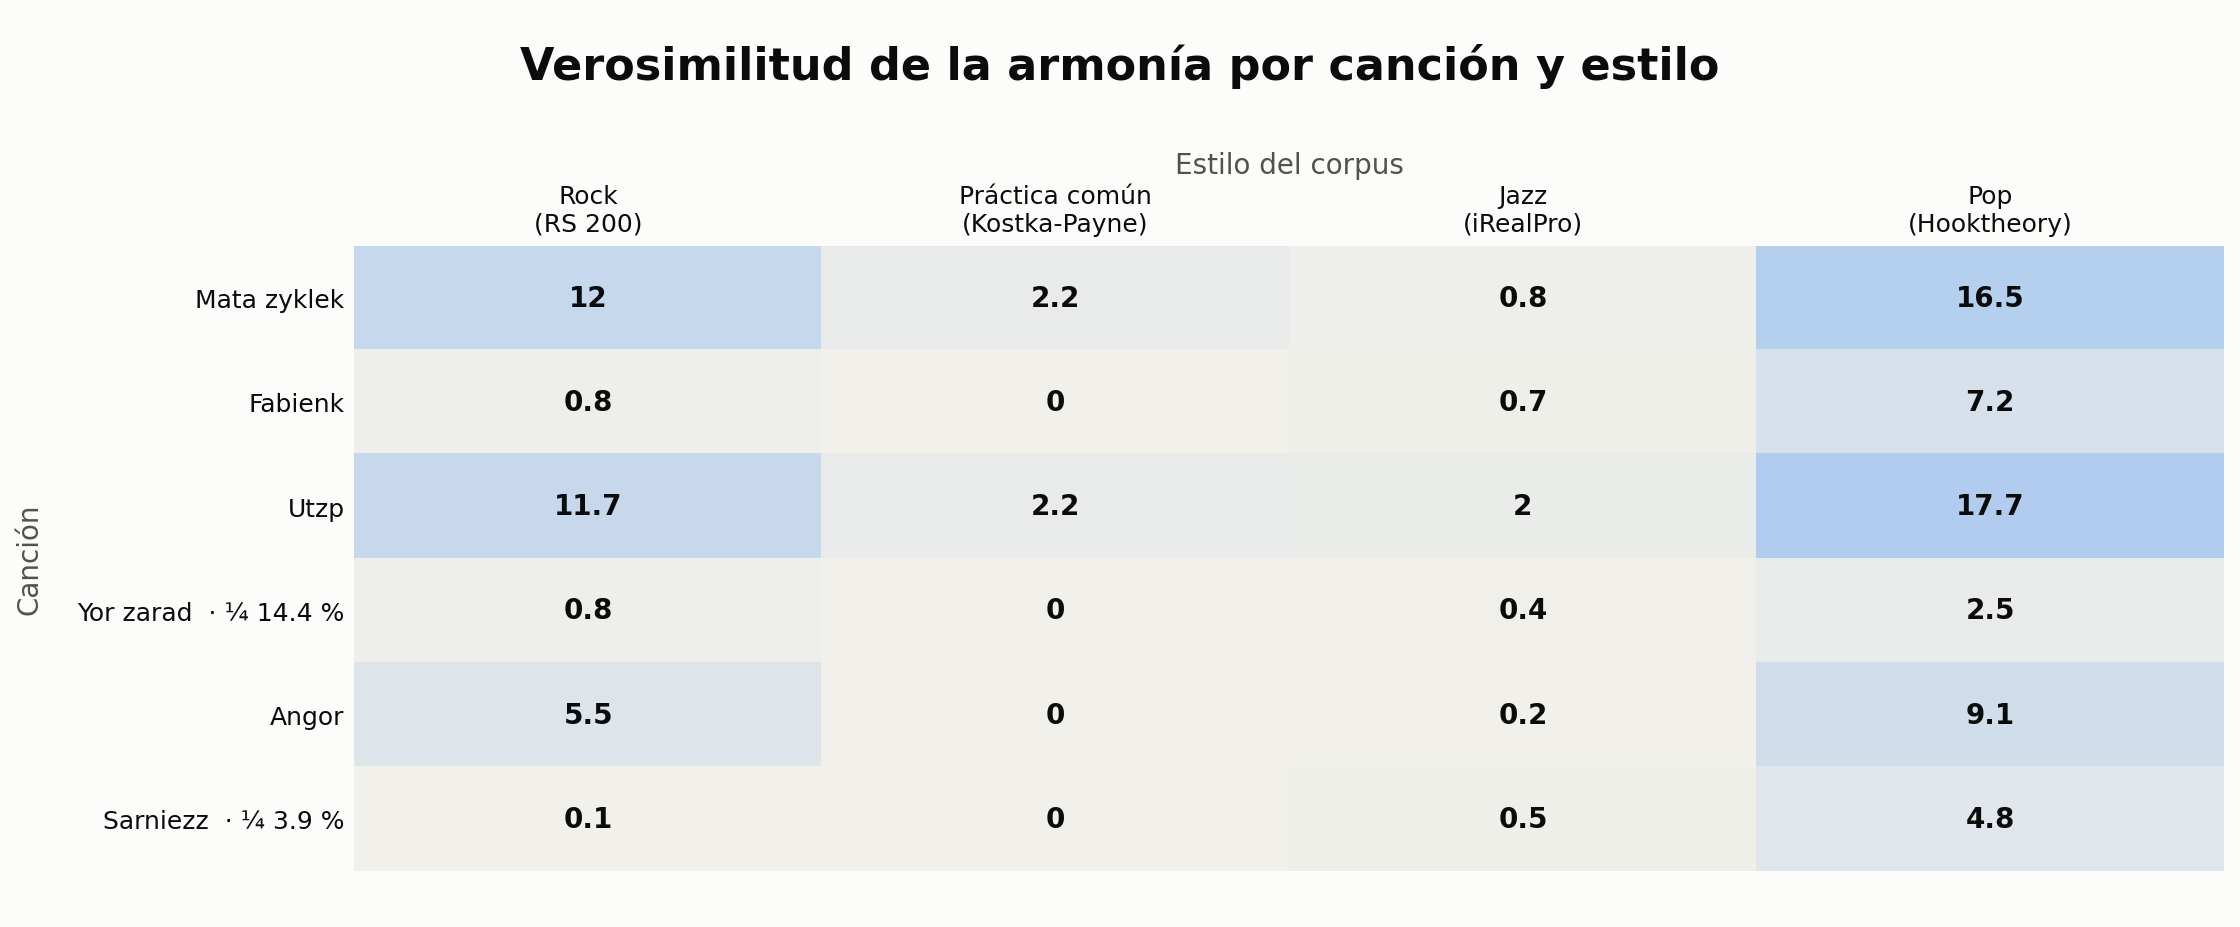
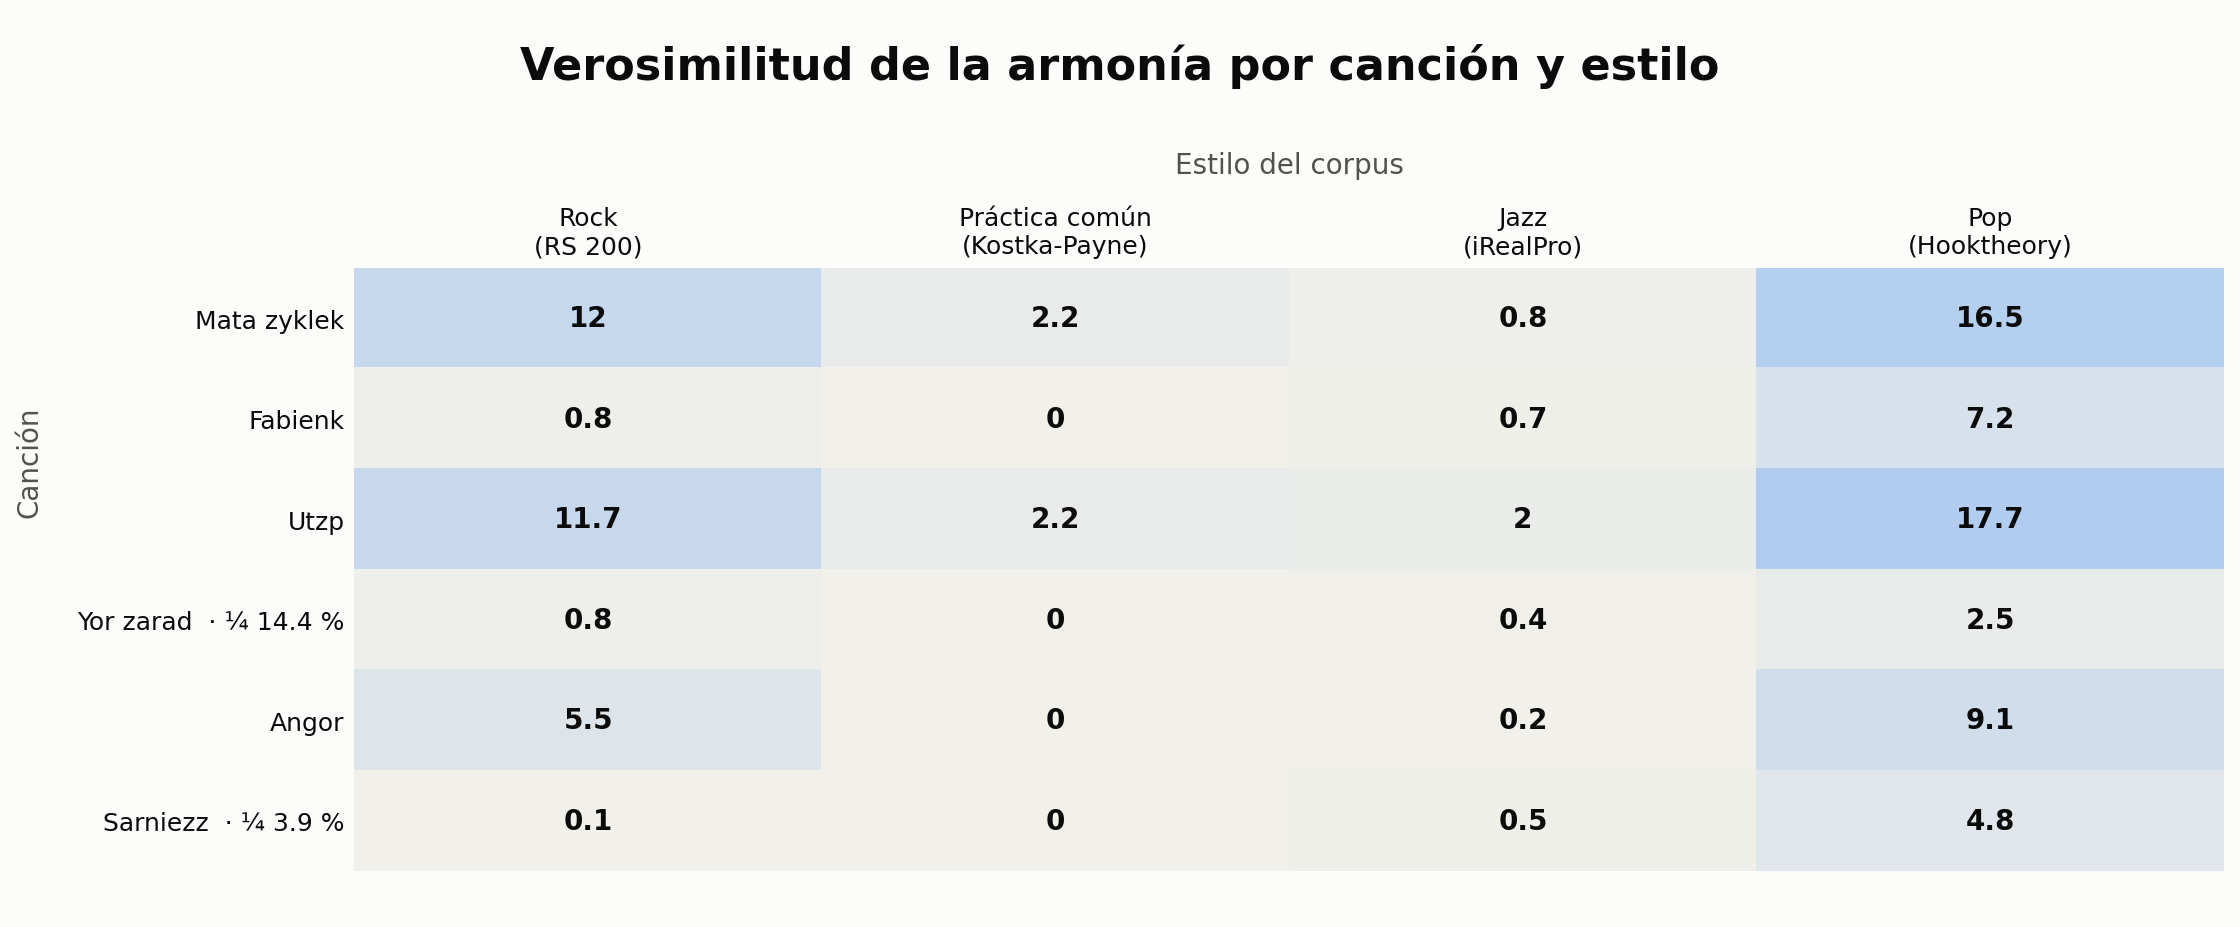
...

diff --git a/presentacion/index.html b/presentacion/index.html
@@ -669,7 +669,7 @@ Primus: comparación propia; no decir aún para qué sirve.</aside>
   <section class="contenido" data-sub="gráfica 3b"><span class="numero"></span><h2>Síntesis · clasificación por corpus</h2><p class="subtitulo">Resultados · 3b</p>
     <div class="grafica-completa sola fig"><img src="img/3b_sintesis_clasificacion_mapa.png" alt=""></div>
     <p class="pie" data-campo="pie"></p>
-    <aside class="notes">Percentil medio de tipicidad de cada canción frente a cada corpus (azul oscuro = más parecido; 50 = pieza típica). Debajo, el percentil de cada bloque (A armonía, E escala, ¼ cuartos de tono, M metro): el color es su promedio; por ejemplo, Sarniezz en rock (34) sale de A 0, E 3 y M 100. La fila «Álbum» es la media. En gris (*): corpus con menos de 100 piezas, que no cuentan para el veredicto; por eso el 83 de Mata Zyklek en clásica no es un parecido real.</aside></section>
+    <aside class="notes">Percentil medio de tipicidad de cada canción frente a cada corpus (azul oscuro = más parecido; 50 = pieza típica). Debajo, el percentil de cada bloque (A armonía, E escala, ¼ cuartos de tono, M metro): el color es su promedio; por ejemplo, Sarniezz en rock (34) sale de A 0, E 3 y M 100. La fila «Álbum» es la media. Rayados (*): corpus con menos de 100 piezas, que no cuentan para el veredicto; por eso el 83 de Mata Zyklek en clásica no es un parecido real.</aside></section>
   <section class="contenido" data-sub="gráfica 3c"><span class="numero"></span><h2>Síntesis · qué corpus gana cada bloque</h2><p class="subtitulo">Resultados · 3c</p>
     <div class="grafica-completa sola fig"><img src="img/3c_sintesis_corpus_por_bloque.png" alt=""></div>
     <p class="pie" data-campo="pie"></p>

diff --git a/scripts/comparacion/figuras_album.py b/scripts/comparacion/figuras_album.py
@@ -178,21 +178,28 @@ def figura_clasificacion(bloques: dict, textos: bool = True, parte: str = "ambas
 def _mapa_clasificacion(arriba, M, nb, corpora, filas, pred, info: dict | None = None, minimo: int = 100,
                         rotulo: bool = True, det: list | None = None) -> None:
     """Los corpus con menos de `minimo` piezas no cuentan para el veredicto (verosimilitud_por_bloques.veredicto):
-    en uno chico y disperso casi todo parece típico. Se muestran en gris liso (sin la escala de color) y marcados con *.
+    en uno chico y disperso casi todo parece típico. Conservan su color, con un rayado diagonal encima y marcados con *.
     Con rotulo=False (diapositiva) la letra es más grande."""
     from matplotlib.colors import LinearSegmentedColormap
+    from matplotlib.patches import Rectangle
     info = info or {}
     chico = [info.get(c, {}).get("piezas", minimo) < minimo for c in corpora]
     L = 1.0 if rotulo else 1.3
     ax = arriba.subplots()
     cmap = LinearSegmentedColormap.from_list("seq", SEQ)
-    cmap.set_bad("#efeeea")                          # columnas que no cuentan: gris liso, nítido (antes, velo blanco)
-    datos = np.ma.masked_array(np.nan_to_num(M, nan=0), mask=np.repeat([chico], M.shape[0], axis=0))
-    imagen = ax.imshow(datos, cmap=cmap, vmin=0, vmax=60, aspect="auto", interpolation="nearest")
-    barra = arriba.colorbar(imagen, ax=ax, location="bottom", shrink=0.45, aspect=40, pad=0.04, ticks=[0, 15, 30, 45, 60])
+    imagen = ax.imshow(np.nan_to_num(M, nan=0), cmap=cmap, vmin=0, vmax=100, aspect="auto", interpolation="nearest")   # el percentil va de 0 a 100
+    import matplotlib as mpl
+    mpl.rcParams["hatch.linewidth"] = 0.8
+    for j, ch in enumerate(chico):                  # columnas que no cuentan: mismo color, rayado diagonal encima
+        if ch:
+            ax.add_patch(Rectangle((j - 0.5, -0.5), 1, M.shape[0], fill=False, hatch="///",
+                                   edgecolor=(1, 1, 1, 0.55), linewidth=0, zorder=2))
+    barra = arriba.colorbar(imagen, ax=ax, location="bottom", shrink=0.45, aspect=40, pad=0.04, ticks=[0, 25, 50, 75, 100])
     if rotulo:                                       # en la diapositiva queda solo la paleta
         barra.set_label("Percentil medio de tipicidad: blanco = menor · azul oscuro = mayor", fontsize=8.5, color=GRIS, labelpad=5)
     barra.ax.tick_params(labelsize=8 * L, colors=GRIS, length=0)
+    # qué significan los extremos: 0 = la canción está más lejos del centro del corpus que todas sus piezas
+    barra.ax.set_xticklabels(["0\natípica", "25", "50\ntípica", "75", "100\nmuy típica"])
     barra.outline.set_visible(False)
     for i in range(M.shape[0]):
         for j in range(M.shape[1]):
@@ -203,10 +210,10 @@ def _mapa_clasificacion(arriba, M, nb, corpora, filas, pred, info: dict | None =
                 txt = f"{M[i, j]:.0f}\n{det[i][j]}"
             else:
                 txt = f"{M[i, j]:.0f}" + (f"\n{nb[i, j]} bl." if i < len(filas) else "")
-            claro = M[i, j] > 30 and not chico[j]
+            claro = M[i, j] > 50
             ax.text(j, i, txt, ha="center", va="center", fontsize=(8 if i < len(filas) else 9) * L, zorder=3,
-                    color="#ffffff" if claro else (GRIS if chico[j] else TINTA),
-                    fontweight="bold" if i == len(filas) and corpora[j] in pred else "normal")
+                    color="#ffffff" if claro else TINTA,
+                    fontweight="bold" if (det is not None or (i == len(filas) and corpora[j] in pred)) else "normal")   # diapositiva: todo en negrilla
     ax.axhline(len(filas) - 0.5, color=FONDO, lw=4)
     ax.set_yticks(range(M.shape[0]), [f["cancion"] for f in filas] + ["Álbum (media)"], fontsize=9.5 * L, color=TINTA)
     rotulos = [f"{c}*" if ch else c for c, ch in zip(corpora, chico)]
@@ -217,7 +224,7 @@ def _mapa_clasificacion(arriba, M, nb, corpora, filas, pred, info: dict | None =
             etiqueta.set_color(GRIS)
     if any(chico) and rotulo:
         barra.set_label(f"Percentil medio de tipicidad: blanco = menor · azul oscuro = mayor\n"
-                        f"* Corpus con menos de {minimo} piezas: en gris, no cuentan para el veredicto (en uno chico casi todo parece típico)",
+                        f"* Corpus con menos de {minimo} piezas: rayados, no cuentan para el veredicto (en uno chico casi todo parece típico)",
                         fontsize=8.5, color=GRIS, labelpad=5)
     ax.xaxis.tick_top()
     ax.tick_params(length=0)
@@ -234,6 +241,7 @@ def _barras_clasificacion(abajo, bl, cuenta, filas, u, resumen, sin_v, titulo: b
     color["sin vecino"] = "#c9c8c2"
     if titulo:
         abajo.suptitle("Qué corpus gana cada bloque", fontsize=12.5, fontweight="bold", color=TINTA)
+    L = 1.0 if leyenda else 1.45                      # diapositiva (sin leyenda): letra más grande
     ax2 = abajo.subplots()
     estilo(ax2, grid_x=True)
     for i, b in enumerate(bl):
@@ -243,10 +251,12 @@ def _barras_clasificacion(abajo, bl, cuenta, filas, u, resumen, sin_v, titulo: b
             if n:
                 ax2.barh(i, n, left=x, color=color[c], height=0.6, edgecolor=FONDO, linewidth=2)
                 x += n
-    ax2.set_yticks(range(len(bl)), [titulo_b.get(b, b) for b in bl], fontsize=9, color=TINTA)
+    ax2.set_yticks(range(len(bl)), [titulo_b.get(b, b) for b in bl], fontsize=9 * L, color=TINTA,
+                   fontweight="bold" if L > 1 else "normal")
     ax2.set_xlim(0, len(filas))
-    ax2.set_xlabel("Canciones del disco", fontsize=9.5, color=GRIS)
-    ax2.set_title(f"Percentil ≥ {u:g}: {resumen}; sin vecino: {sin_v}", fontsize=9, color=GRIS)
+    ax2.tick_params(axis="x", labelsize=8 * L)
+    ax2.set_xlabel("Canciones del disco", fontsize=9.5 * L, color=GRIS, labelpad=4 * L)
+    ax2.set_title(f"Percentil ≥ {u:g}: {resumen}; sin vecino: {sin_v}", fontsize=9 * L, color=GRIS, pad=6 * L)
     ax2.invert_yaxis()
     n_c = {c: sum(cuenta[b][c] for b in bl) for c in todos}
     handles = [plt.Line2D([0], [0], color=color[c], lw=8,

diff --git a/scripts/comparacion/verosimilitud_estilos.py b/scripts/comparacion/verosimilitud_estilos.py
@@ -199,8 +199,9 @@ def figura_matriz(filas: list[dict], est: list[str], textos: bool = True):
     ax.tick_params(length=0)
     for s_ in ax.spines.values():
         s_.set_visible(False)
-    ax.set_xlabel("Estilo del corpus", color=GRIS)
+    ax.set_xlabel("Estilo del corpus", color=GRIS, labelpad=12)   # arriba de los encabezados, con aire
     ax.set_ylabel("Canción", color=GRIS, labelpad=12)
+    ax.yaxis.label.set_y(0.68)        # más arriba: a la altura de los nombres cortos, lejos de «Yor zarad · ¼ …»
     return fig
 
 

diff --git a/docs/leyendas_figuras.md b/docs/leyendas_figuras.md
@@ -135,7 +135,7 @@ periodos.
 
 **Pie descriptivo.** Percentil medio de tipicidad de cada canción frente a cada corpus (azul oscuro = más parecido;
 50 = pieza típica). Debajo, el percentil de cada bloque (A armonía, E escala, ¼ cuartos de tono, M metro): el color es su promedio; por ejemplo, Sarniezz en rock (34) sale de A 0, E 3 y M 100. La fila «Álbum» es la media.
-En gris (*): corpus con menos de 100 piezas, que no cuentan para el veredicto; por eso el 83 de Mata Zyklek en clásica
+Rayados (*): corpus con menos de 100 piezas, que no cuentan para el veredicto; por eso el 83 de Mata Zyklek en clásica
 no es un parecido real.
 
 ### 3c · Qué corpus gana cada bloque
